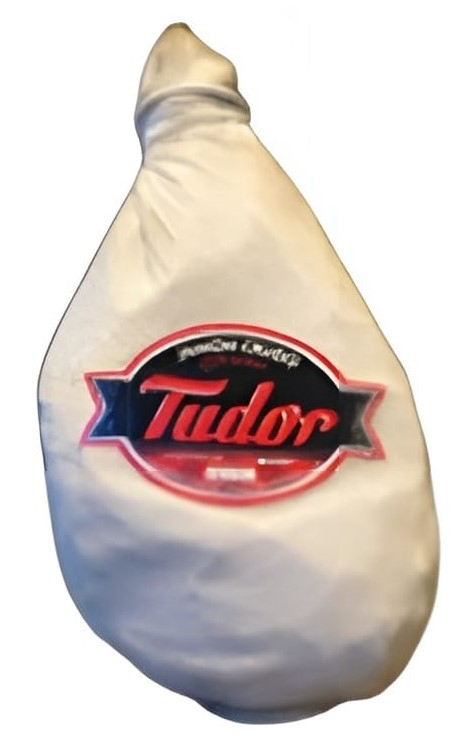
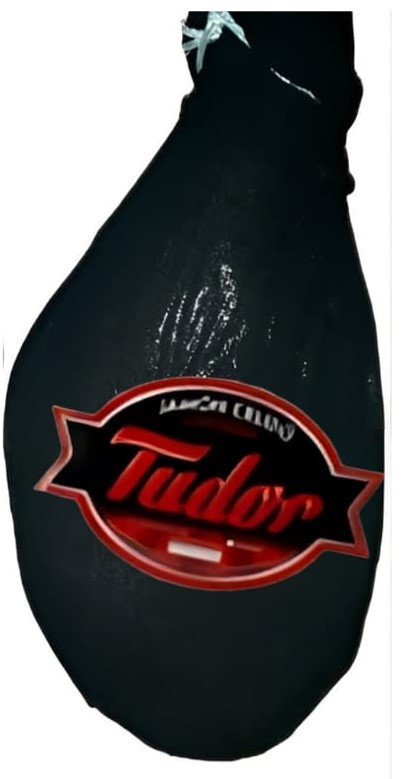
modificación en la sección 5 catálogo-carrousel

diff --git a/src/components/molecules/ImgCard.jsx b/src/components/molecules/ImgCard.jsx
@@ -1,11 +1,11 @@
 import CardImg1 from '../../graphics/imagenes/productos/torgelon.jpeg';
 import CardImg2 from '../../graphics/imagenes/productos/loscalvos42.jpeg';
 import CardImg3 from '../../graphics/imagenes/productos/elartesano.jpeg';
-import CardImg4 from '../../graphics/imagenes/productos/elartesano1.jpeg';
-import CardImg5 from '../../graphics/imagenes/productos/tudor.jpeg';
-import CardImg6 from '../../graphics/imagenes/productos/tudor2.jpeg'
-import CardImg7 from '../../graphics/imagenes/productos/tudor3.jpeg'
-import CardImg8 from '../../graphics/imagenes/productos/tudor4.jpeg'
+import CardImg4 from '../../graphics/imagenes/productos/tudor.jpeg';
+import CardImg5 from '../../graphics/imagenes/productos/torgelonblanco.jpeg';
+import CardImg6 from '../../graphics/imagenes/productos/loscalvosblanco.jpeg'
+import CardImg7 from '../../graphics/imagenes/productos/elartesanoblanco.jpeg'
+import CardImg8 from '../../graphics/imagenes/productos/tudorblanco.jpeg'
 //import CardImg9 from '../../graphics/imagenes/productos/tudor4.jpeg'
 //import CardImg10 from '../../graphics/imagenes/productos/leonetti_ronald1.jpg'
 
@@ -16,64 +16,48 @@ const ImgCard = [
         img: CardImg1,
         title: "torgelon",
         instalments: "24 meses",
-        price: "$0.00",
-        product: "https://www.leonetti.com.ar/productos/zapato-arezzo1",
     },
     {
         id:"2",
         img: CardImg2,
         title: "los calvos",
         instalments: "24 meses",
-        price: "$0.00",
-        product:"https://www.leonetti.com.ar/productos/zapato-faro/",
     },
     {
         id:"3",
         img: CardImg3,
         title: "el artesano",
         instalments: "24 meses",
-        price: "$0.00",
-        product:"https://www.leonetti.com.ar/productos/zapato-vicenza-azul/",
     },
     {
         id:"4",
         img: CardImg4,
         title: "tudor",
         instalments: "24 meses",
-        price: "$0.00",
-        product:"https://www.leonetti.com.ar/productos/zapato-boris/",
     },
     {
         id:"5",
         img: CardImg5,
-        title: "el artesano",
+        title: "torgelon",
         instalments: "13 meses",
-        price: "$0.00",
-        product:"https://www.leonetti.com.ar/productos/zapato-vicenza-azul/",
     },
     {
         id:"6",
         img: CardImg6,
-        title: "tudor",
+        title: "los calvos",
         instalments: "13 meses",
-        price: "$0.00",
-        product:"https://www.leonetti.com.ar/productos/zapato-boris/",
     },
     {
         id:"7",
         img: CardImg7,
         title: "el artesano",
         instalments: "13 meses",
-        price: "$0.00",
-        product:"https://www.leonetti.com.ar/productos/zapato-vicenza-azul/",
     },
     {
         id:"8",
         img: CardImg8,
         title: "tudor",
         instalments: "13 meses",
-        price: "$0.00",
-        product:"https://www.leonetti.com.ar/productos/zapato-boris/",
     },
 
  ];

diff --git a/src/components/organisms/Seccion5.jsx b/src/components/organisms/Seccion5.jsx
@@ -1,7 +1,7 @@
 import React from 'react'
+import CarrouselCat from '../molecules/CarrouselCat'
 import "../estilos/estilos.css"
-import promo from "../../graphics/imagenes/Varios/imgpromocion.jpg"
-import "../estilos/estilos.css"
+
 
 
 
@@ -12,23 +12,23 @@ const Seccion5 = () => {
         <div className='flex justify-center'>
             <h2 className='p-3 mt-16 capitalize md:mt-8 text-skinColor estilos-h2'>catálogo</h2>
         </div>
-        <div className='flex flex-wrap w-auto h-auto py-6 md:justify-evenly md:flex-row'>
-          <div className='w-3/4 ml-16 text-base font-normal h-1/2 text-fontSecondary lg:w-1/4 md:mt-8 sm:w-1/2 md:h-1/4'>
+        <div className='flex flex-col justify-center w-auto h-auto py-6 lg:flex-row'>
+          <div className='w-1/2 h-auto mt-8 ml-12 text-base font-normal sm:ml-48 lg:ml-0 md:p-12 text-fontSecondary'>
               <h3 className='uppercase md:mb-16 estilos-h3 text-secondaryColor'>presentación</h3>
               <br />
               <br />
               <h5 className='estilos-h5 text-navbarColor'>kit unidad</h5>
-              <p className='p-1 seccion-p'>El producto de su marca preferida</p>
+              <p className='p-1 mt-6 seccion-p'>El producto de su marca preferida</p>
               <br />
-              <h5 className='estilos-h5 text-navbarColor'>kit accesorios</h5>
-              <p className='p-1 seccion-p'>El producto con soporte mas un vino o cuchillo</p>
+              <h5 className='mt-5 estilos-h5 text-navbarColor'>kit accesorios</h5>
+              <p className='p-1 mt-6 seccion-p'>El producto con soporte mas un vino o cuchillo</p>
               <br />
-              <h5 className='estilos-h5 text-navbarColor'>kit de corte</h5>
-              <p className='p-1seccion-p'>El producto mas soporte, vino, cuchillo, caja  y dos copas</p>
+              <h5 className='mt-5 estilos-h5 text-navbarColor'>kit de corte</h5>
+              <p className='p-1 mt-6 seccion-p'>El producto mas soporte, vino, cuchillo, caja  y dos copas</p>
               <br />
           </div>
-          <div className='w-full h-full p-10 md:p-4 md:w-1/2 lg:w-1/4 lg:h-1/4 sm:mt-4 md:mt-auto'>
-            <img src={promo} alt="jamónxjamón-promo" className='rounded-md md:shadow-md h-1/4 w-96'/>
+          <div className='w-3/4 mt-16 ml-14 sm:ml-32 lg:ml-0 h-1/2 sm:w-1/2 sm:h-1/4 md:w-3/4 md:h-3/4 lg:w-1/4 lg:h-1/4'>
+            <CarrouselCat />
           </div>
         </div>
     </div>

diff --git a/src/components/organisms/Navbar.jsx b/src/components/organisms/Navbar.jsx
@@ -19,21 +19,21 @@ const Navbar = () => {
         <div className="flex navbar-nav nav-item md:hidden">
           <img className='w-20 py-2 pr-2 ' src="logos/logo.png" alt="logo-jamónxjamón" />
         </div>
-        <div className="flex-grow p-5 lg:p-0 md:justify-evenly collapse navbar-collapse" id="navbarSupportedContent">
+        <div className="flex-grow p-5 lg:p-0 md:justify-evenly navbar-collapse" id="navbarSupportedContent">
           {/* <!-- Left links --> */}
-            <div className="flex mt-8 navbar-nav nav-item">
+            <div className="flex mt-8 nav-item">
               <a className="p-0 text-lg text-white uppercase transition duration-500 ease-in-out estilos-nav nav-link hover:text-skinColor hover:scale-100" href="#inicio">inicio</a>
             </div>
-            <div className="flex mt-8 navbar-nav nav-item">
+            <div className="flex mt-8 nav-item">
               <a className="p-0 text-lg text-white uppercase transition duration-500 ease-in-out estilos-nav nav-link hover:text-skinColor hover:scale-100" href="#productos">productos</a>
             </div>
-            <div className="justify-center navbar-nav nav-item collapse navbar-collapse">
+            <div className="justify-center nav-item collapse navbar-collapse">
               <img className='w-24 pt-2' src="logos/logo.png" alt="logo-jamónxjamón" />
             </div>
-            <div className='flex mt-8 navbar-nav nav-item'>
+            <div className='flex mt-8 nav-item'>
               <a className="p-0 text-lg font-light text-white uppercase transition duration-500 ease-in-out estilos-nav nav-link hover:text-skinColor hover:scale-100" href="#marcas">marcas</a>
             </div>
-            <div className="flex mt-8 navbar-nav nav-item">
+            <div className="flex mt-8 nav-item">
               <a className="p-0 text-lg text-white uppercase transition duration-500 ease-in-out estilos-nav nav-link hover:text-skinColor hover:scale-100" href="#promociones">catálogo</a>
             </div>
         </div>

diff --git a/src/components/molecules/CarrouselCat.jsx b/src/components/molecules/CarrouselCat.jsx
@@ -1,0 +1,63 @@
+import OwlCarousel from 'react-owl-carousel';
+import 'owl.carousel/dist/assets/owl.carousel.css';
+import 'owl.carousel/dist/assets/owl.theme.default.css';
+import ImageCarrCat from '../atoms/ImageCarrCat';
+
+
+import TORGELON from '../../graphics/imagenes/varios/torgelonblancopromo.jpg'
+import LOSCALVOS from '../../graphics/imagenes/varios/loscalvosblancopromo.jpg'
+import ELARTESANO from '../../graphics/imagenes/varios/elartesanoblancopromo.jpg'
+import TUDOR from '../../graphics/imagenes/varios/tudorblancopromo.jpg'
+
+
+
+
+
+const options={
+    margin: 10,
+    responsiveClass: true,
+    nav: false,
+    dots: true,
+    autoplay: false,
+    smartSpeed: 500,
+    responsive: {
+        0: {
+            items: 1,
+           
+        },
+        600: {
+            items: 2,
+        },
+        1000: {
+            items: 1,
+        }
+    },
+};
+
+const CarrouselCat = () => {
+
+    return (
+      <>
+      
+      <div>
+          <OwlCarousel className='owl-theme' {...options}>
+              <div className='item'>
+                  <ImageCarrCat image={TORGELON}/>
+              </div>
+              <div className='item'>
+                  <ImageCarrCat image={LOSCALVOS}/>
+              </div>
+              <div className='item'>
+                  <ImageCarrCat image={ELARTESANO}/>
+              </div>
+              <div className='item'>
+                  <ImageCarrCat image={TUDOR}/>
+              </div>
+          </OwlCarousel>
+      </div>
+      </>
+      
+    )
+  }
+  
+  export default  CarrouselCat

diff --git a/src/components/organisms/Seccion4.jsx b/src/components/organisms/Seccion4.jsx
@@ -1,5 +1,5 @@
-import Carrousel from "../molecules/Carrousel";
-import Carrousel1 from "../molecules/Carrousel1";
+import CarrouselNac from "../molecules/CarrouselNac";
+import CarrouselImp from "../molecules/CarrouselImp";
 import "../estilos/estilos.css"
 
 const Seccion4 = () => {
@@ -8,14 +8,14 @@ const Seccion4 = () => {
         <div className="flex justify-center">
           <h2 className="p-3 mt-16 capitalize text-skinColor estilos-h2 ">nacionales</h2>
         </div>
-          <div className="w-full h-full px-5 mt-16 md:mt-20">
-            <Carrousel/>
+          <div className="w-auto h-full px-5 mt-16 md:mt-20">
+            <CarrouselNac/>
           </div>
         <div className="flex justify-center">
           <h2 id="marcas" className="p-3 mt-8 capitalize text-skinColor estilos-h2 ">importados</h2>
         </div>
-          <div className="w-full h-auto px-5 mt-16 lg:ml-36 md:mt-24 pb-11">
-          <Carrousel1/>
+          <div className="w-auto h-auto px-5 mt-16 md:px-0 lg:ml-8 md:mt-24 pb-11">
+          <CarrouselImp/>
           </div>
     </div>
   )

diff --git a/src/components/molecules/Card.jsx b/src/components/molecules/Card.jsx
@@ -12,7 +12,7 @@ const Card = ({value}) => {
           <div className="flex-col w-auto p-5 text-center">
             <h2 className="mb-3 text-2xl font-bold capitalize text-secondaryColor">{value.title}</h2>
           </div>
-          <div className="flex-col w-auto p-5 mt-8 font-sans text-center text-zinc-600">
+          <div className="flex-col w-auto mt-8 font-sans text-center p-7 text-zinc-600">
               <p>
                 <span className="text-sm font-bold md:text-base text-fontPrimary">Crudo de {value.instalments} de estacionamiento<br /></span>
                 <span className="mt-3 text-base font-bold text-secondaryColor">Efectivo/Transferencia</span>

diff --git a/src/components/organisms/Main.jsx b/src/components/organisms/Main.jsx
@@ -6,7 +6,7 @@ const Main = () => {
   return (
     <>
     
-    <div style={{backgroundImage: "url(bgbanner/banner1.png)"}} id='inicio' className="flex flex-col h-auto min-w-full min-h-screen mt-0 bg-fixed bg-center bg-no-repeat bg-cover md:justify-between">
+    <div style={{backgroundImage: "url(bgbanner/mainportada1.jpeg)"}} id='inicio' className="flex flex-col h-auto min-w-full min-h-screen mt-0 bg-fixed bg-center bg-no-repeat bg-cover md:justify-between">
         <Navbar/>
         <div className='flex flex-col justify-end w-auto h-full md:text-justify md:mt-0 mt-96 md:p-9'>
           <div className='flex w-1/4 text-center md:w-full'>

diff --git a/src/components/estilos/estilos.css b/src/components/estilos/estilos.css
@@ -30,22 +30,32 @@
 
 .estilos-h3{
   font-family: 'Italianno';
-  font-size: 30px;
+  font-size: 45px;
   font-weight: 300;
   line-height: 50xp;
 }
 
 .estilos-h5{
   font-family: 'Agrandir';
-  font-size: 25px;
-  font-weight: 100;
-  margin-top: 10px;
+  font-size: 33px;
+  font-weight: 300;
 }
 
 .seccion-p{
   font-family: Arial, Helvetica, sans-serif;
-  font-size: 18px;
-  text-align: justify;
+  font-size: 23px;
+}
+
+.estilos-card{
+  font-family: 'Agrandir';
+  font-size: 31px;
+  font-weight: 300;
+}
+
+.card-p{
+  font-family: 'Agrandir';
+  font-size: 20px;
+  font-weight: 100;
 }
   /* scroll to Top*/
   .top-to-btm{

diff --git a/src/components/molecules/CarrouselNac.jsx b/src/components/molecules/CarrouselNac.jsx
@@ -35,19 +35,22 @@ const options={
         },
         600: {
             items: 2,
+            margin:10,
         },
         700: {
             items: 3,
+            margin:10,
         },
         1000: {
-            items: 5,
+            items: 4,
+            margin:10,
 
         }
     },
 };
 
 
-const Carrousel = () => {
+const CarrouselNac = () => {
 
   return (
     <>
@@ -94,4 +97,4 @@ const Carrousel = () => {
   )
 }
 
-export default Carrousel
+export default CarrouselNac

diff --git a/src/components/molecules/CarrouselImp.jsx b/src/components/molecules/CarrouselImp.jsx
@@ -28,20 +28,18 @@ const options={
             
         },
         600: {
-            items: 2,
-        },
-        700: {
             items: 3,
+            margin:10,
         },
         1000: {
-            items: 5,
-
+            items: 4,
+            margin:10,
         }
     },
 };
 
 
-const Carrousel1 = () => {
+const CarrouselImp = () => {
 
   return (
     <>
@@ -67,4 +65,4 @@ const Carrousel1 = () => {
   )
 }
 
-export default  Carrousel1
+export default  CarrouselImp

diff --git a/src/components/atoms/ImageCarrCat.jsx b/src/components/atoms/ImageCarrCat.jsx
@@ -1,0 +1,11 @@
+import React from 'react'
+
+const ImageCarrCat = (props) => {
+  return (
+      <div className='w-auto h-auto p-3'>
+          <img className='w-3/4 rounded-xl h-3/4' src={props.image} alt="" />
+      </div>
+  )
+}
+
+export default ImageCarrCat

diff --git a/src/components/atoms/ImageCarrousel.jsx b/src/components/atoms/ImageCarrousel.jsx
@@ -1,6 +1,4 @@
 
-
-
 import React from 'react'
 
 const ImageCarrousel = (props) => {
